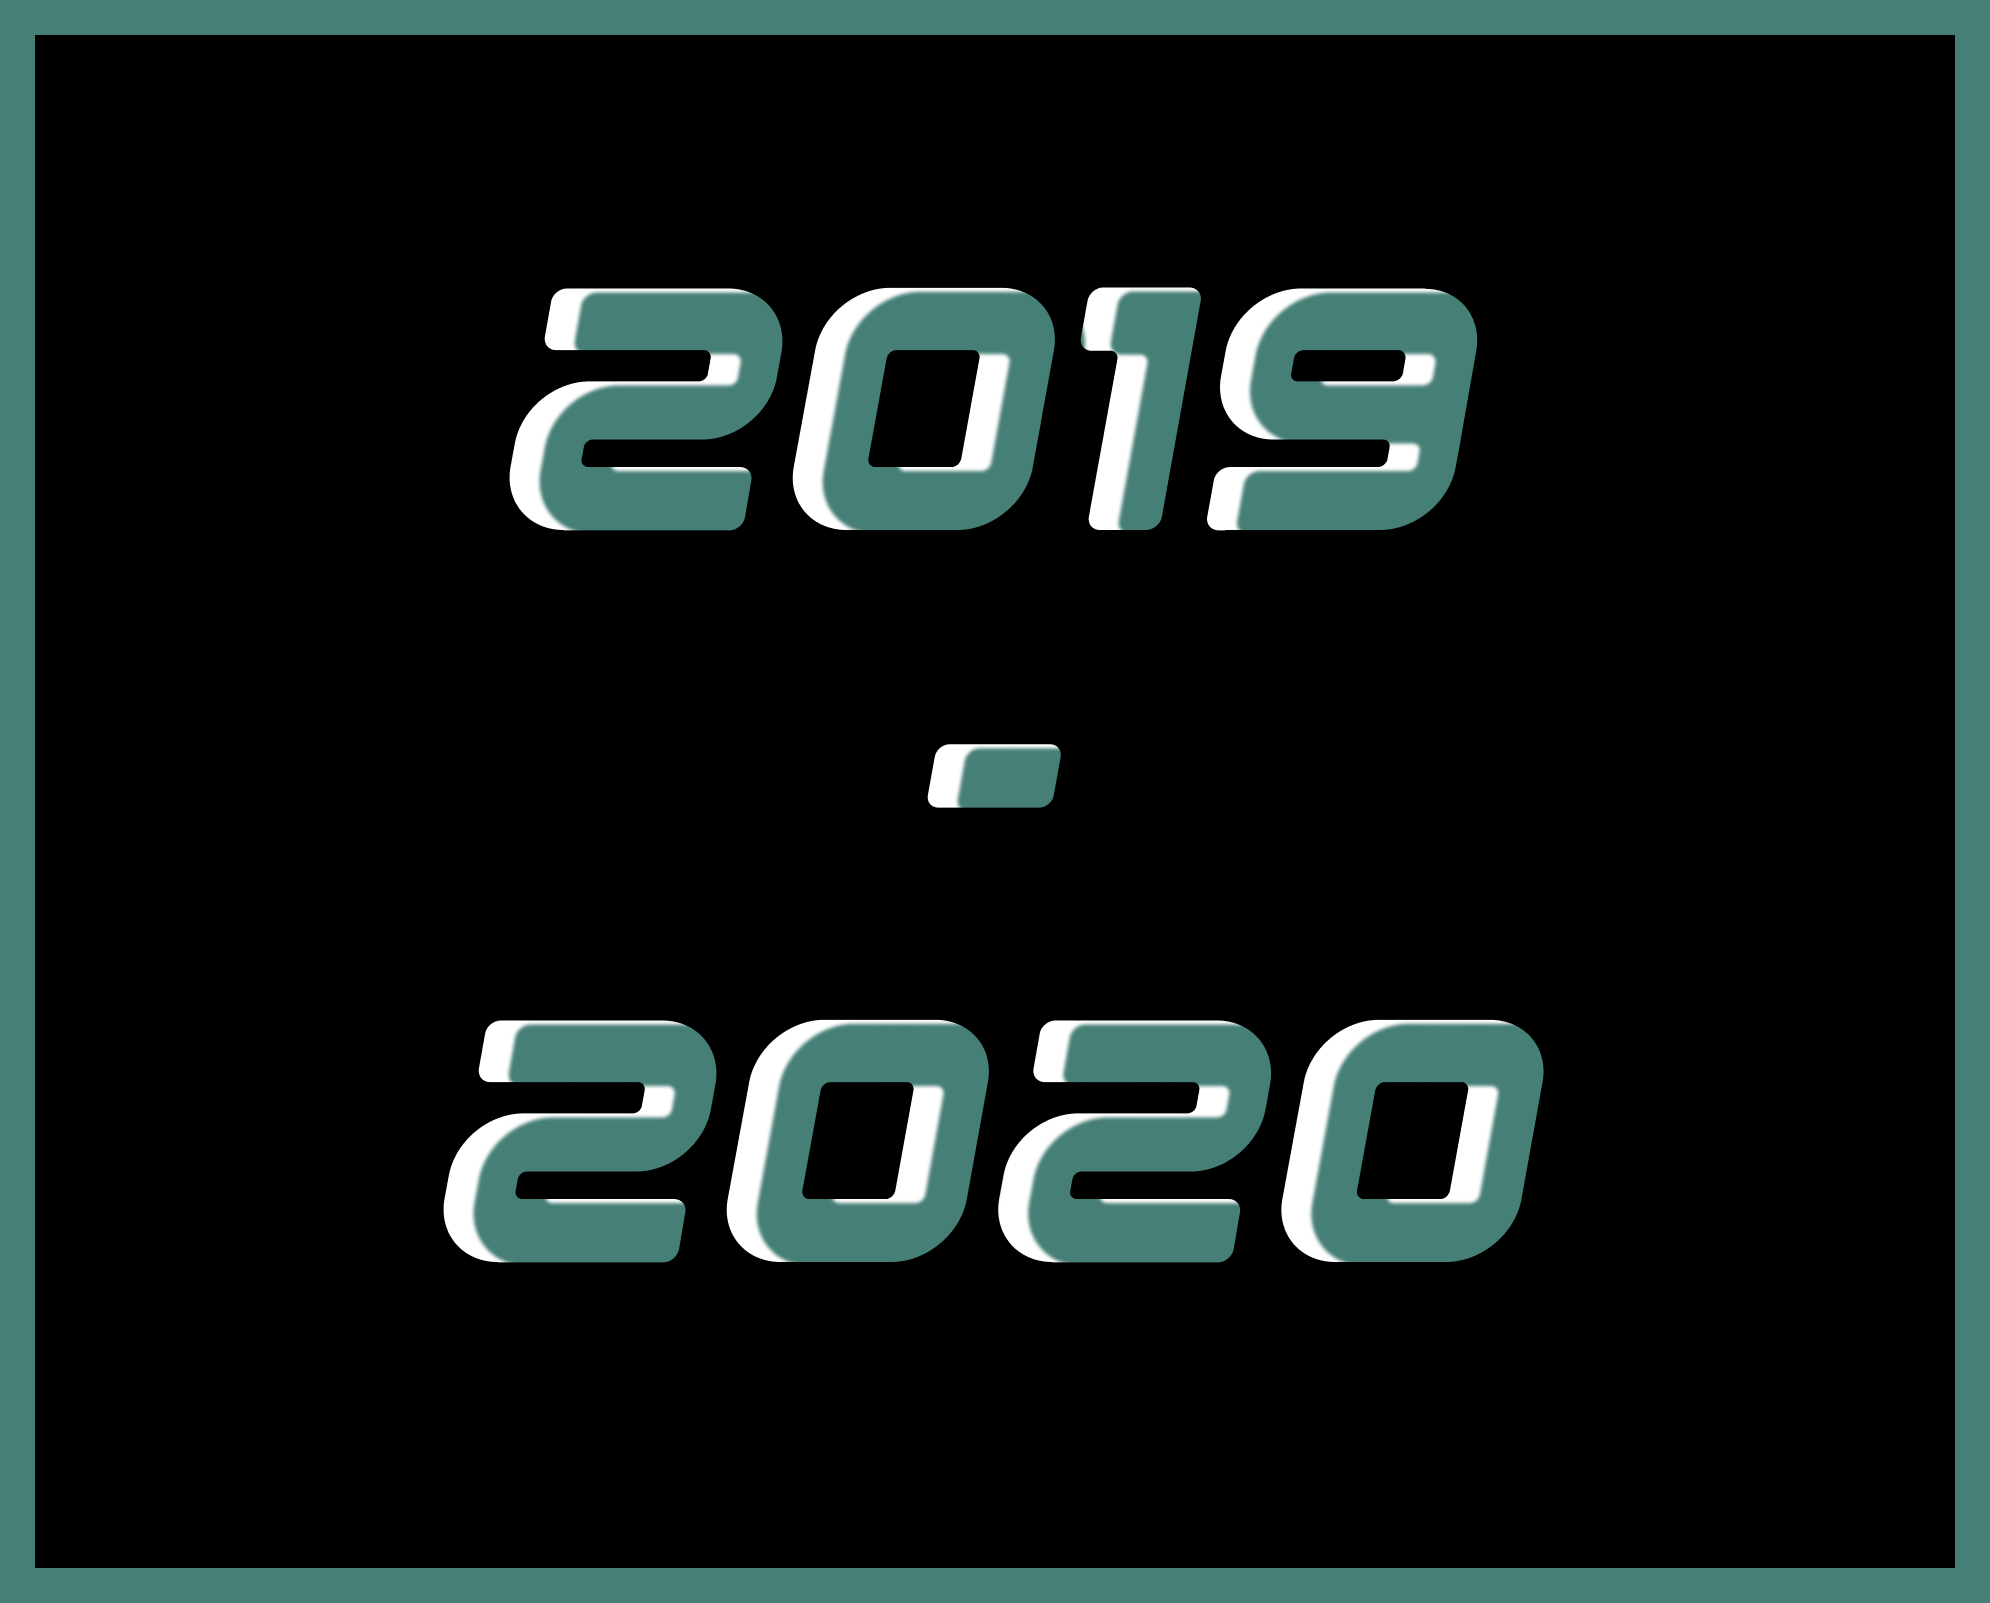
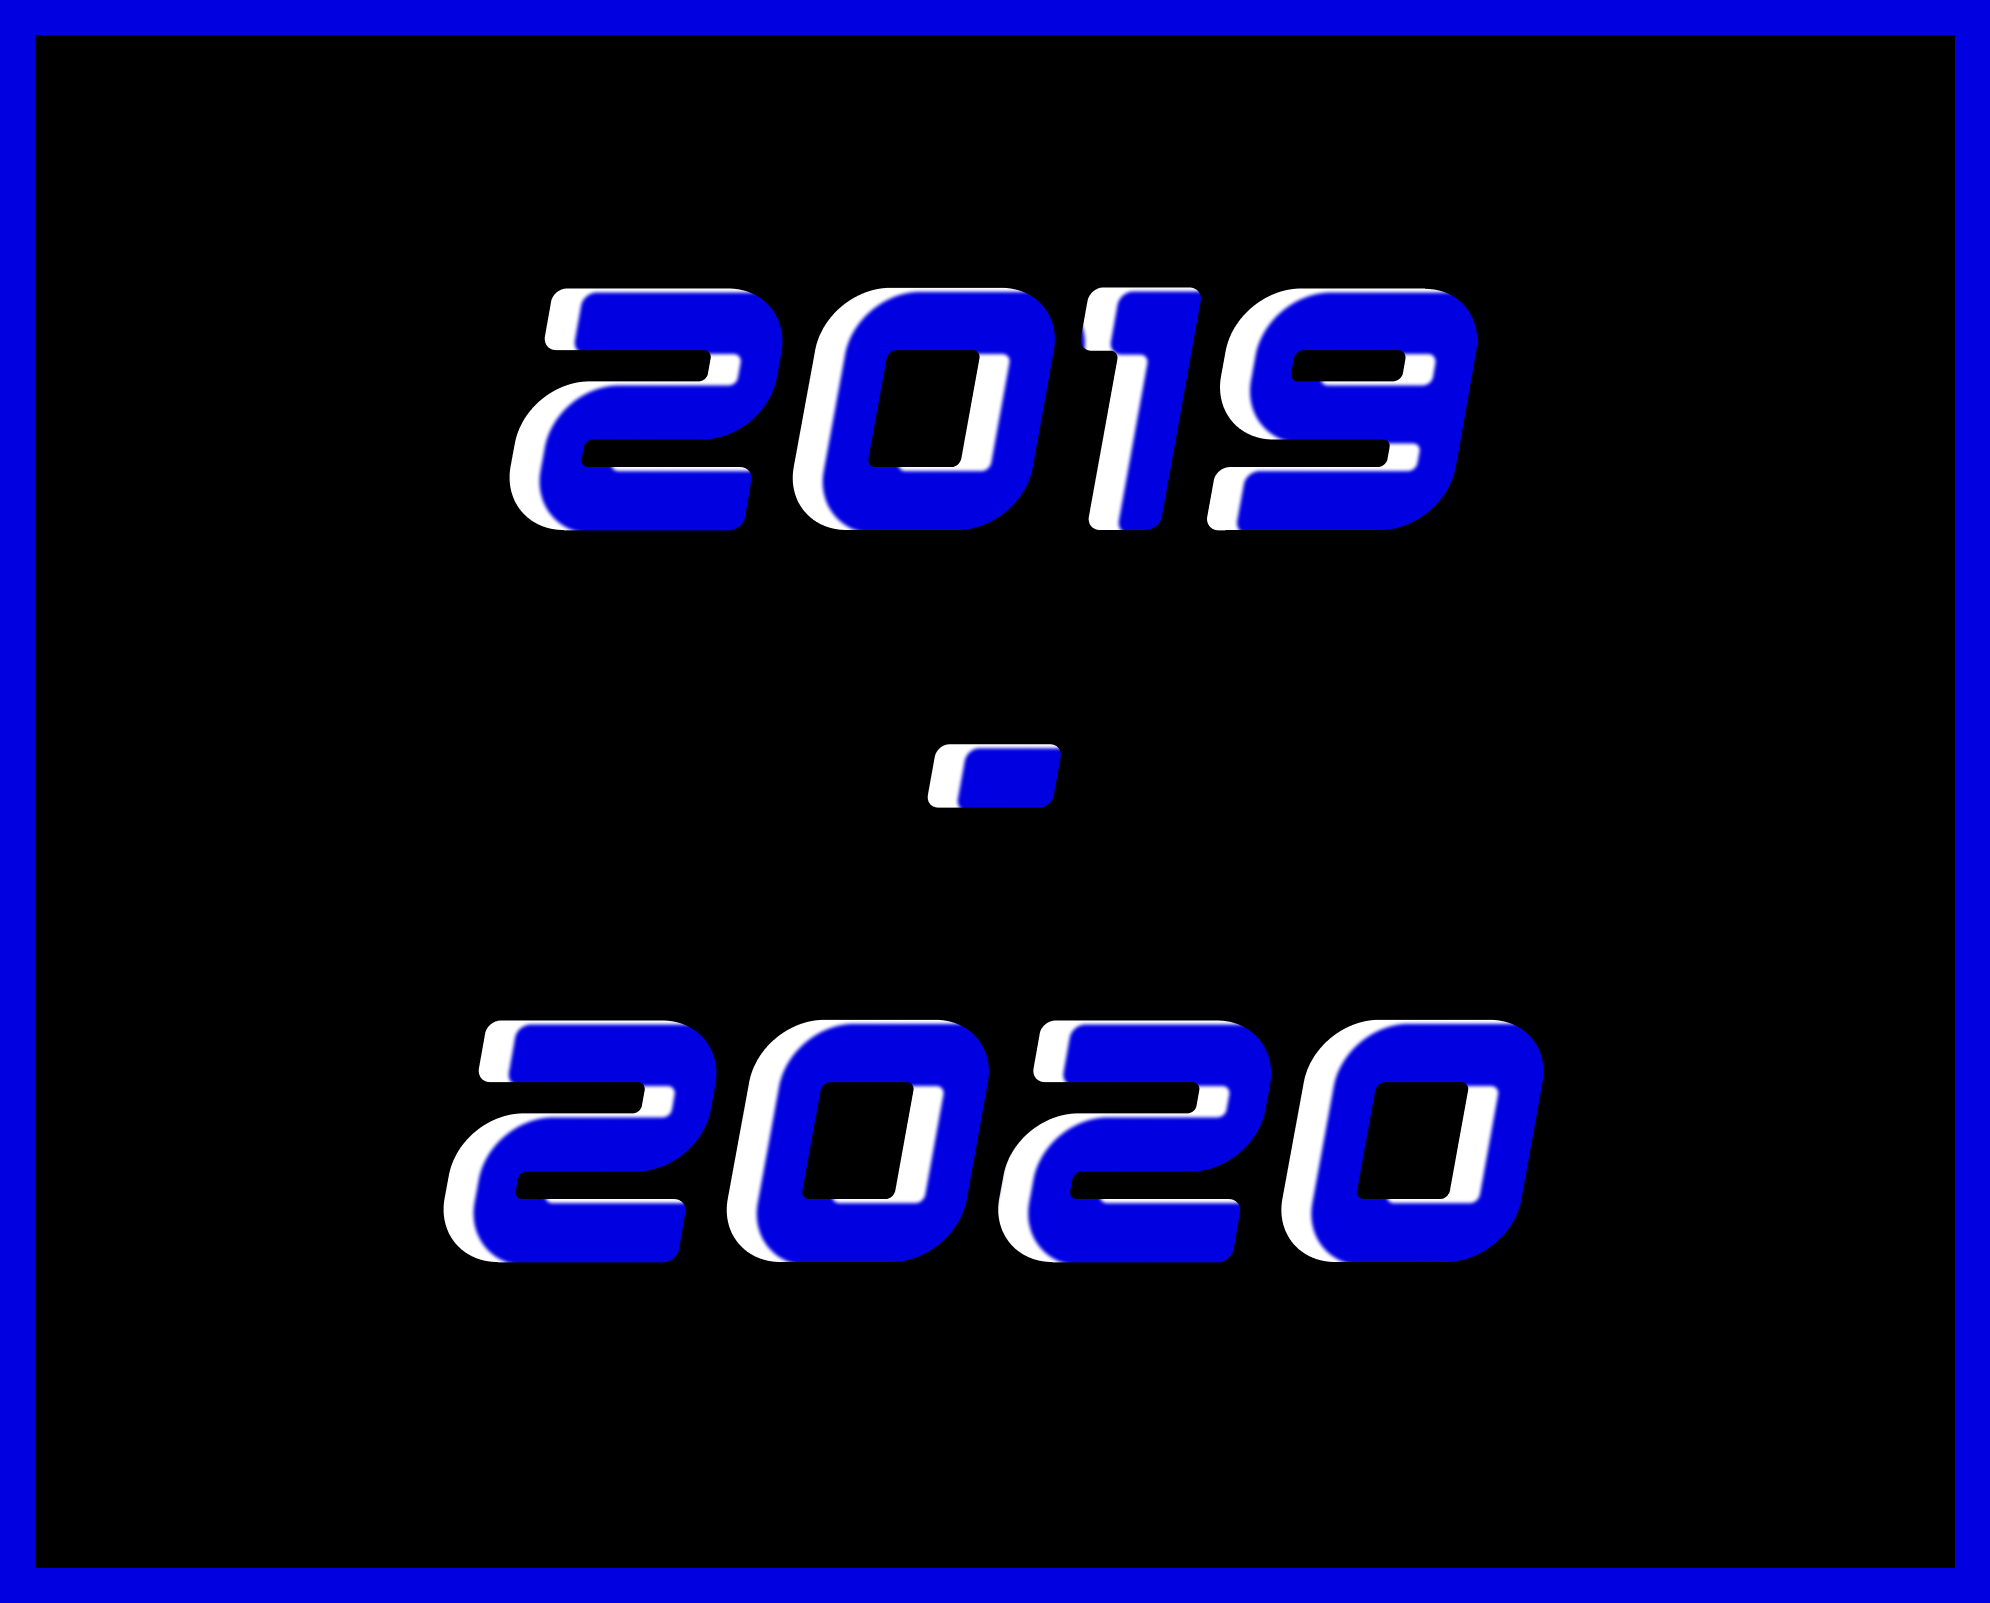
Changement de couleur et background

diff --git a/assets/css/style.css b/assets/css/style.css
@@ -25,7 +25,7 @@
 @font-face {     font-family: "Newton Howard";     src: url("./assets/newton_howard/Newton\ Howard\ Font.otf") format("opentype"); }
 @font-face {     font-family: "Designer";     src: url("./assets/designer_2/Designer.otf") format("opentype"); }
 body{
-    background-image: url("../img/Glow\ Black\ And\ White\ GIF\ by\ xponentialdesign\ -\ Find\ &\ Share\ on\ GIPHY.gif");
+    background-image: url("../img/Popular\ in\ dreamsmpxreader.gif");
     background-size: cover;
     background-attachment: fixed;
 }
@@ -74,7 +74,7 @@ body{
     padding-top: 1%;
 }
 .menu a:hover{
-    color: #457F76;
+    color: blue;
     /* background-size:50%; */
     /* padding: 0.5vh; */
 }
@@ -94,7 +94,7 @@ h1{
     justify-content: center;
     padding-top: 2.5%;
     padding-bottom: 2.5vh;
-    color:#457F76; ;
+    color:blue; ;
     
 }
 /* a propos de moi  */
@@ -128,7 +128,7 @@ h1{
 .profil img{
     width: 65%;
     height: 65%;
-    border:solid #457F76;
+    border:solid blue;
     /* padding: 10vh; */
 }
 .titledesc{
@@ -184,7 +184,7 @@ h1{
     width: 40vh;
 }
 .background{
-    background-color: #457F76;
+    background-color: blue;
 }
 /* centre d'intérets */
 .center-container{
@@ -200,7 +200,7 @@ h1{
 }
 .container-interest div:hover{
     transform:scale(1.2) ;
-    color: #457F76;
+    color: blue;
 }
 .container-interest div{
     transition: 0.5s;  
@@ -430,7 +430,7 @@ width: 100%;
     text-align: center;
     font-family: "Designer";
     font-size: 6vh ;
-    color:  #457F76;
+    color:  blue;
     text-decoration: underline;
 }
 #soustitle{
@@ -501,18 +501,18 @@ width: 100%;
 }
 
 .facebook {
-    background: #457F76;
+    background: blue;
 }
 
 .twitter {
-    background: #457F76;
+    background: blue;
 }
 
 .googleplus {
-    background: #457F76;
+    background: blue;
 }
 .cv{
-    background: #457F76;
+    background: blue;
 }
 
 .card-front,

diff --git a/assets/css/loader.css b/assets/css/loader.css
@@ -20,7 +20,7 @@
   
   .button {
     height: 100%;
-    background-color:  #457F76;
+    background-color:  blue;
     padding: 1rem 2rem;
     cursor: pointer;
     color: black;
@@ -57,7 +57,7 @@
     height: 100%;
     margin: -.25rem -5rem;
     border-radius: 1rem;
-    background-color:  #457F76;
+    background-color:  blue;
     transform-origin: left;
     transform: scaleX(0%);
     animation: load 2.5s ease-in-out .5s forwards;
